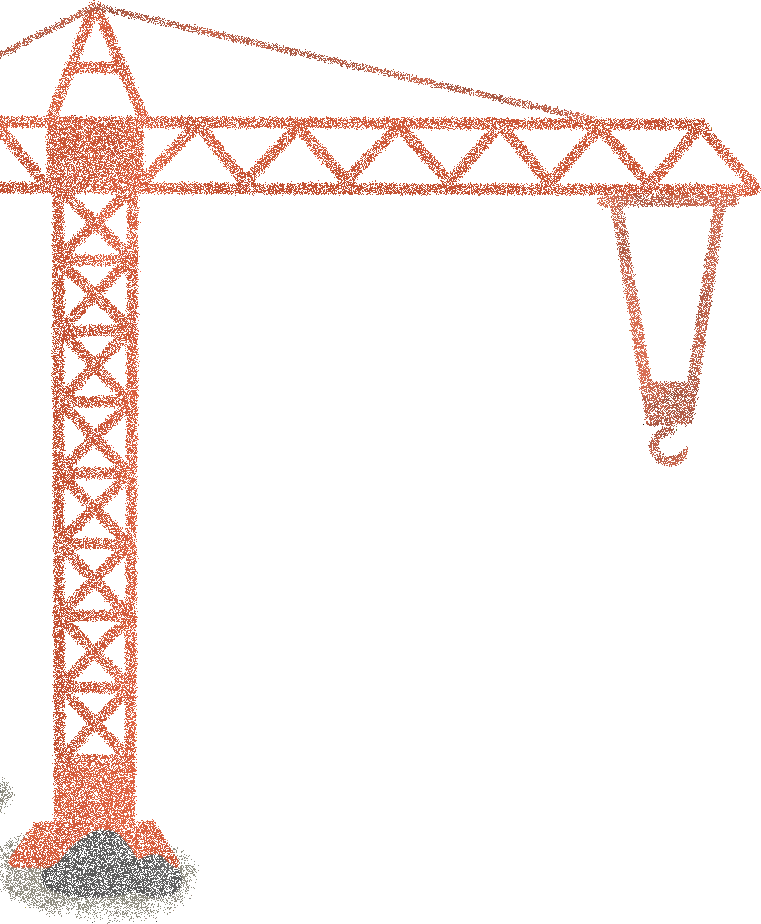
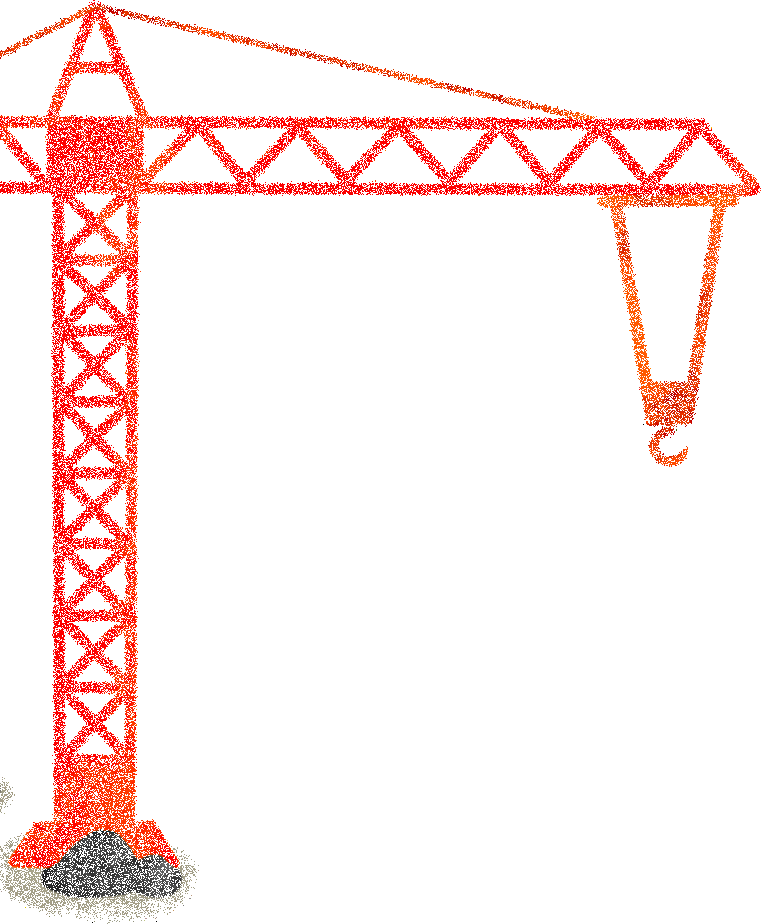
Even kijken of de titelpagina okay is

diff --git a/index.html b/index.html
@@ -57,30 +57,30 @@
 
         <!-- Achtergrond attributen -->
         <img
-        src="images/hijskraan.png"
+        src="images/hijskraan_V2.png"
         alt="Achtergrond hijskraan"
         class="back_begin"
-        data-0="top: 45%; left: -2%; opacity: 0.6; display: block;"
+        data-0="top: 45%; left: -2%; opacity: 0.2; display: block;"
         data-200="top: 45%; left: -2%; opacity: 0;"
         data-280="display: none"
         style="width: 75%;"
         />
 
         <img
-        src="images/hek.png"
+        src="images/hek_V2.png"
         alt="Achtergrond hek"
         class="back_begin"
-        data-0="top: 89%; left: 60%; opacity: 1; display: block;"
+        data-0="top: 89%; left: 60%; opacity: 0.4; display: block;"
         data-200="top: 89%; left: 60%; opacity: 0;"
         data-280="display: none"
         style="width: 15%;"
         />
 
         <img
-        src="images/vrachtwagen.png"
+        src="images/vrachtwagen_V2.png"
         alt="Achtergrond vrachtwagen"
         class="back_begin"
-        data-0="top: 86%; left: 75%; opacity: 1; display: block;"
+        data-0="top: 86%; left: 75%; opacity: 0.3; display: block;"
         data-200="top: 86%; left: 75%; opacity: 0;"
         data-280="display: none"
         style="width: 35%;"
@@ -90,7 +90,7 @@
         src="images/koffers.png"
         alt="Achtergrond vrachtwagen"
         class="back_begin"
-        data-0="top: 30%; left: 70%; opacity: 1; display: block;"
+        data-0="top: 30%; left: 70%; opacity: 0.8; display: block;"
         data-200="top: 26%; left: 70%; opacity: 0;"
         data-280="display: none"
         style="width: 30%;"
@@ -660,7 +660,7 @@
         >Gas</p>  
 
 
-        
+
         <!-- --------------------------------------------- -->
         <!-- Praat wolk 1 -->
 
